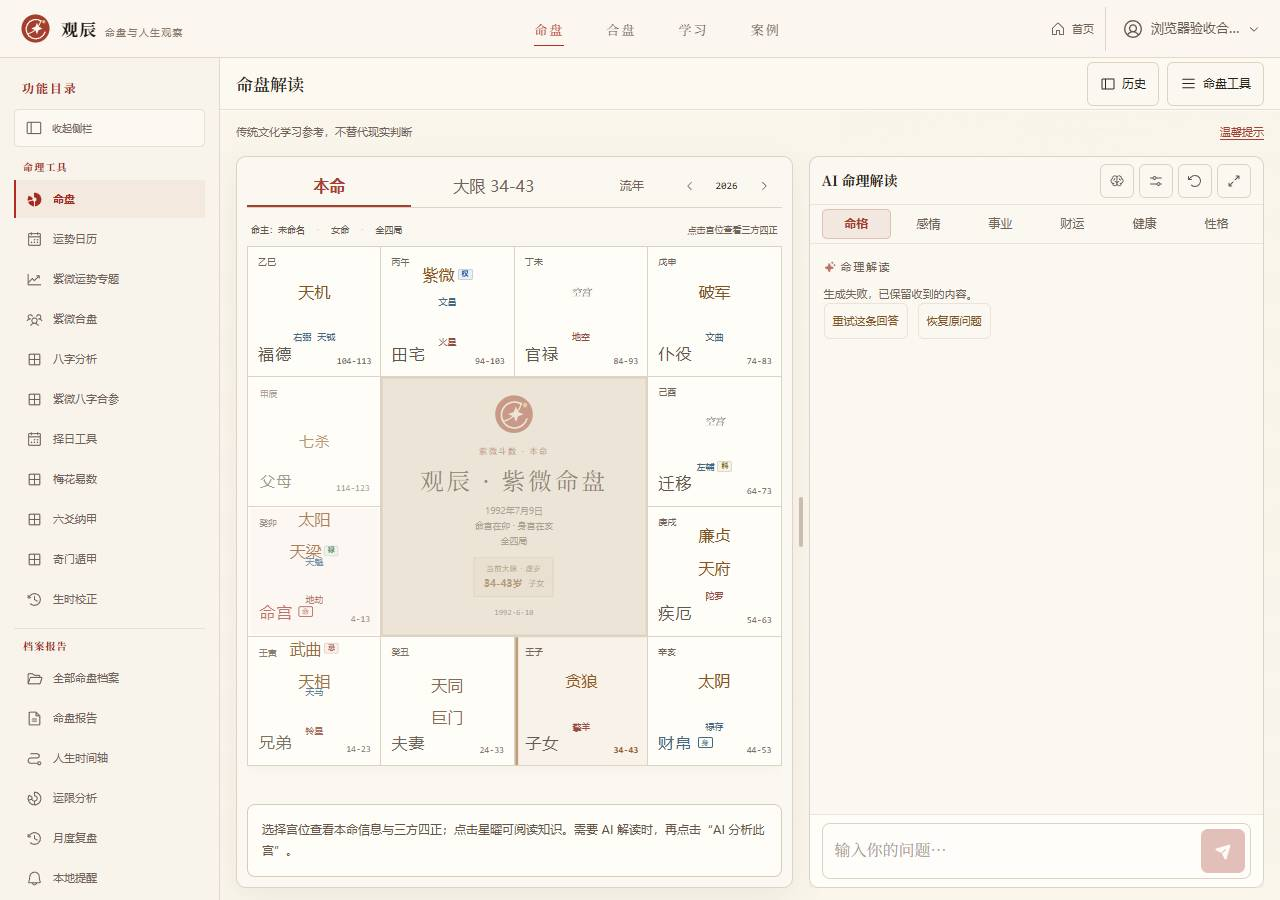
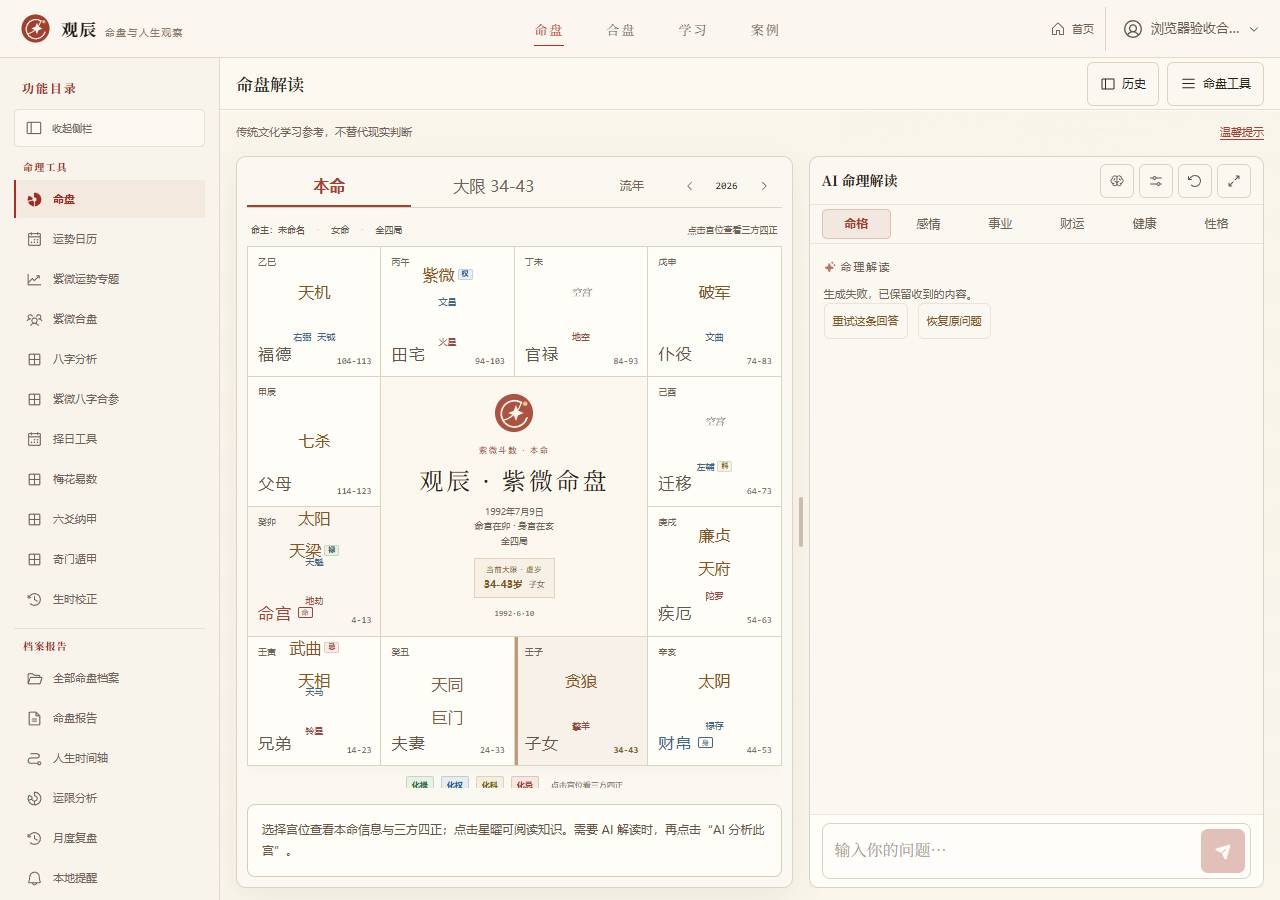
fix(web): 避免 networkidle 导致 CI 超时

diff --git a/scripts/qa-web-e2e.ts b/scripts/qa-web-e2e.ts
@@ -74,7 +74,9 @@ async function main() {
   page.on('pageerror', error => pageErrors.push(`${error.message} @ ${page.url()}`));
 
   // 通过真实注册表单建立账号，后续页面共用同一个浏览器会话。
-  await page.goto(`${base}/register`, { waitUntil: 'networkidle' });
+  await page.goto(`${base}/register`, { waitUntil: 'domcontentloaded' });
+  await page.waitForSelector('#auth-username', { timeout: 20_000 });
+  await page.waitForTimeout(500);
   const username = `e2e-${Date.now()}`;
   const password = `e2e-${Math.random().toString(36).slice(2)}!A1`;
   await page.fill('#auth-username', username);
@@ -113,7 +115,8 @@ async function main() {
   for (const width of widths) {
     await page.setViewportSize({ width, height: width < 500 ? 844 : 900 });
     for (const target of pages) {
-      const response = await page.goto(`${base}${target.path}`, { waitUntil: 'networkidle' });
+      const response = await page.goto(`${base}${target.path}`, { waitUntil: 'domcontentloaded' });
+      await page.waitForTimeout(700);
       const overflow = await page.evaluate(() => document.documentElement.scrollWidth - window.innerWidth);
       results.push({ name: `${target.name} ${width}`, passed: (response?.status() ?? 500) < 400 && overflow <= 1, status: response?.status() ?? 0, overflow });
     }
@@ -125,9 +128,9 @@ async function main() {
   for (const width of [390, 1280]) {
     await page.setViewportSize({ width, height: width < 500 ? 844 : 900 });
     for (const target of axePages) {
-      await page.goto(`${base}${target}`, { waitUntil: 'networkidle' });
+      await page.goto(`${base}${target}`, { waitUntil: 'domcontentloaded' });
       // 等 Framer Motion 的入场透明度/缩放结束，避免把动画中间态当成真实对比度。
-      await page.waitForTimeout(1200);
+      await page.waitForTimeout(1500);
       await page.addScriptTag({ content: axeSource });
       const result = await page.evaluate(async () => {
         // @ts-expect-error axe 由页面脚本注入
@@ -140,14 +143,17 @@ async function main() {
   }
 
   await page.setViewportSize({ width: 1280, height: 900 });
-  await page.goto(`${base}/`, { waitUntil: 'networkidle' });
+  await page.goto(`${base}/`, { waitUntil: 'domcontentloaded' });
+  await page.waitForTimeout(1200);
   await page.screenshot({ path: path.join(screenshotDirectory, 'home-1280.jpg'), type: 'jpeg', quality: 70, fullPage: false });
   if (chartId) {
-    await page.goto(`${base}/chart/${chartId}`, { waitUntil: 'networkidle' });
+    await page.goto(`${base}/chart/${chartId}`, { waitUntil: 'domcontentloaded' });
+    await page.waitForTimeout(1500);
     await page.screenshot({ path: path.join(screenshotDirectory, 'chart-1280.jpg'), type: 'jpeg', quality: 70, fullPage: false });
   }
   await page.setViewportSize({ width: 390, height: 844 });
-  await page.goto(`${base}/`, { waitUntil: 'networkidle' });
+  await page.goto(`${base}/`, { waitUntil: 'domcontentloaded' });
+  await page.waitForTimeout(1200);
   await page.screenshot({ path: path.join(screenshotDirectory, 'home-390.jpg'), type: 'jpeg', quality: 70, fullPage: false });
 
   const report = {
